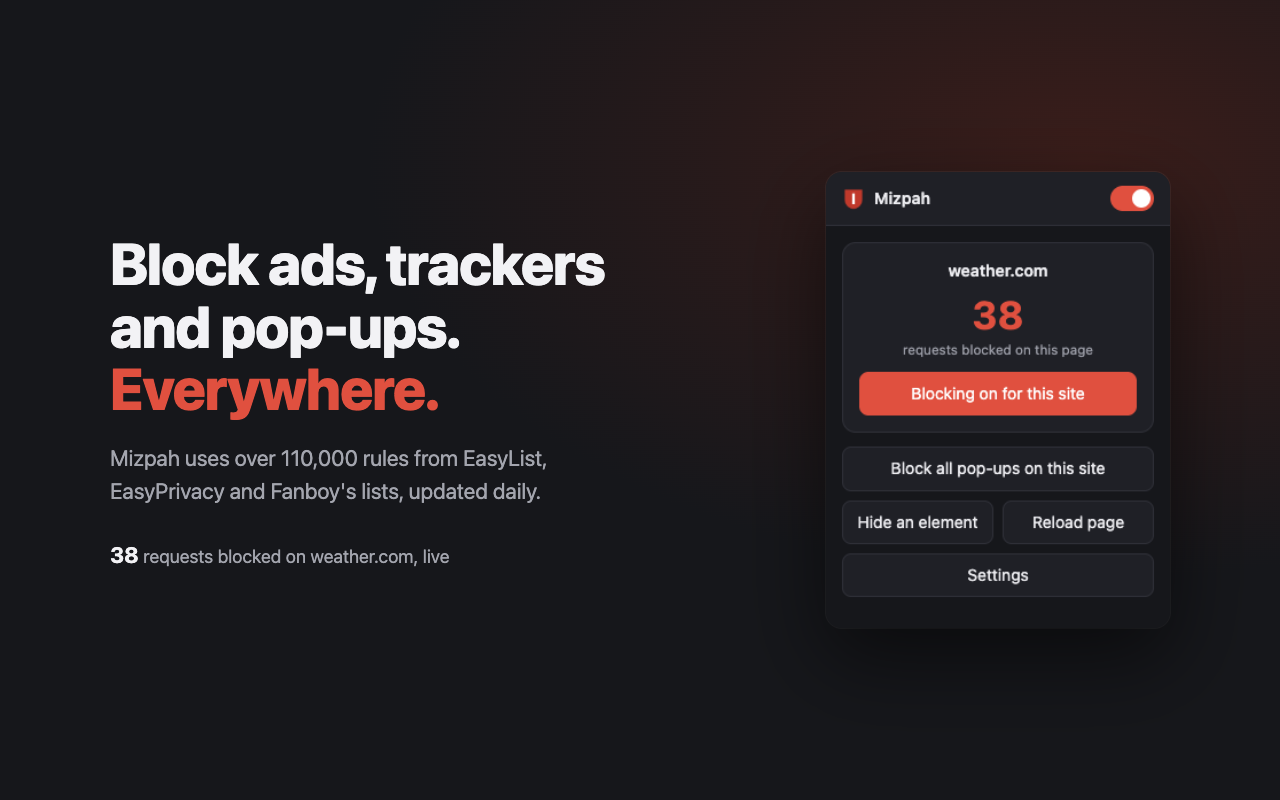
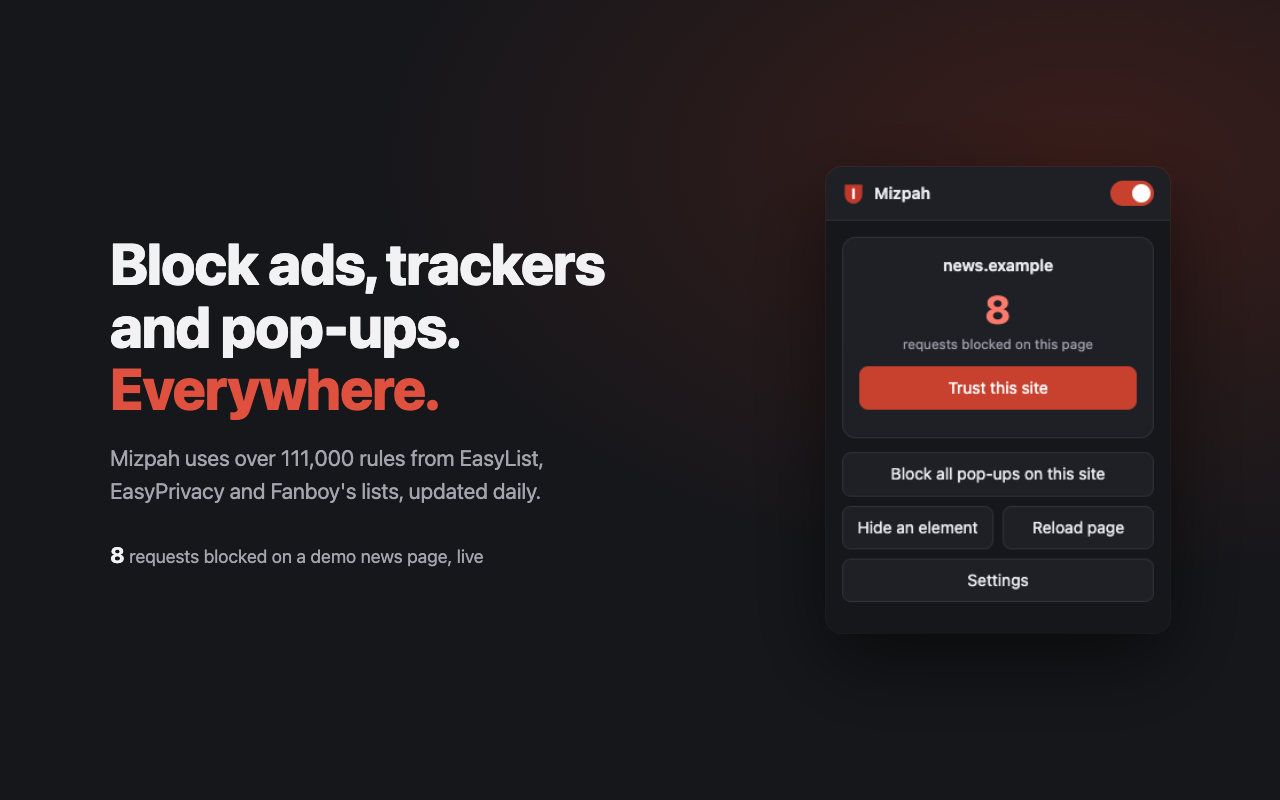
Close the remaining review items
- tools/apple-archive.sh archives both apps with the team ID from
  APPLE_TEAM_ID or the gitignored platforms/team.local, so the Xcode
  project never stores it.
- Store and App Store images use a local demo news page instead of a
  third-party site; the iPhone and iPad app screenshots show the current
  instructions.
- The popup's host-access check builds a port-free match pattern, and
  [hidden] now always hides elements.
- Smoke test covers the element picker end to end, rejected picker and
  settings messages from content scripts, settings import, and the
  cleanup that runs on update.
- The pre-commit hook works from worktrees.
- Safari Xcode copy synced.

diff --git a/platforms/Mizpah/Shared (Extension)/Resources/popup/popup.js b/platforms/Mizpah/Shared (Extension)/Resources/popup/popup.js
@@ -32,10 +32,14 @@ function render() {
   $("status").textContent = !state.enabled ? "Blocking is paused everywhere" : state.hostname && state.allowlisted ? "Hide an element and pop-up blocking are unavailable on trusted sites" : "";
 }
 
+const sitePattern = () => {
+  const u = new URL(tab.url);
+  return `${u.protocol}//${u.hostname}/*`;
+};
+
 async function checkHostAccess() {
   if (!state?.hostname || !state.enabled || state.allowlisted) return;
-  const origin = `${new URL(tab.url).origin}/*`;
-  const granted = await chrome.permissions.contains({ origins: [origin] }).catch(() => true);
+  const granted = await chrome.permissions.contains({ origins: [sitePattern()] }).catch(() => true);
   $("hostAccess").hidden = granted;
 }
 
@@ -51,7 +55,7 @@ async function refresh() {
 }
 
 $("grantAccess").addEventListener("click", async () => {
-  const granted = await chrome.permissions.request({ origins: [`${new URL(tab.url).origin}/*`] }).catch(() => false);
+  const granted = await chrome.permissions.request({ origins: [sitePattern()] }).catch(() => false);
   if (granted) {
     $("hostAccess").hidden = true;
     $("note").hidden = false;

diff --git a/popup/popup.js b/popup/popup.js
@@ -32,10 +32,14 @@ function render() {
   $("status").textContent = !state.enabled ? "Blocking is paused everywhere" : state.hostname && state.allowlisted ? "Hide an element and pop-up blocking are unavailable on trusted sites" : "";
 }
 
+const sitePattern = () => {
+  const u = new URL(tab.url);
+  return `${u.protocol}//${u.hostname}/*`;
+};
+
 async function checkHostAccess() {
   if (!state?.hostname || !state.enabled || state.allowlisted) return;
-  const origin = `${new URL(tab.url).origin}/*`;
-  const granted = await chrome.permissions.contains({ origins: [origin] }).catch(() => true);
+  const granted = await chrome.permissions.contains({ origins: [sitePattern()] }).catch(() => true);
   $("hostAccess").hidden = granted;
 }
 
@@ -51,7 +55,7 @@ async function refresh() {
 }
 
 $("grantAccess").addEventListener("click", async () => {
-  const granted = await chrome.permissions.request({ origins: [`${new URL(tab.url).origin}/*`] }).catch(() => false);
+  const granted = await chrome.permissions.request({ origins: [sitePattern()] }).catch(() => false);
   if (granted) {
     $("hostAccess").hidden = true;
     $("note").hidden = false;

diff --git a/options/theme.css b/options/theme.css
@@ -48,3 +48,5 @@ button.primary.off { background: var(--surface); color: var(--text); border-colo
 .switch input:checked + span::before { transform: translateX(16px); }
 .switch input:focus-visible + span { outline: 2px solid var(--accent); outline-offset: 2px; }
 @media (prefers-reduced-motion: reduce) { .switch span, .switch span::before { transition: none; } }
+
+[hidden] { display: none !important; }

diff --git a/platforms/Mizpah/Shared (Extension)/Resources/options/theme.css b/platforms/Mizpah/Shared (Extension)/Resources/options/theme.css
@@ -48,3 +48,5 @@ button.primary.off { background: var(--surface); color: var(--text); border-colo
 .switch input:checked + span::before { transform: translateX(16px); }
 .switch input:focus-visible + span { outline: 2px solid var(--accent); outline-offset: 2px; }
 @media (prefers-reduced-motion: reduce) { .switch span, .switch span::before { transition: none; } }
+
+[hidden] { display: none !important; }

diff --git a/README.md b/README.md
@@ -37,7 +37,7 @@ node tools/package.mjs
 tools/safari.sh
 ```
 
-The first builds the Chrome, Edge and Firefox packages. The second regenerates the Safari Xcode project; set `BUILD_NUMBER` to a number above your last upload, or it uses the current UTC time as `yymmddHHMM`. `tools/safari.sh --check` compares the committed Xcode copy of the extension with a fresh build. Versions, store limits and Apple settings are in `tools/release.config.json`. Publishing to the App Store needs a paid Apple Developer Program membership. The App Store listing, screenshots in `store/apple/` and the build and upload steps are in [store/app-store.md](store/app-store.md). Regenerate the App Store screenshots with `node tools/apple-assets.mjs`.
+The first builds the Chrome, Edge and Firefox packages. The second regenerates the Safari Xcode project; set `BUILD_NUMBER` to a number above your last upload, or it uses the current UTC time as `yymmddHHMM`. `tools/safari.sh --check` compares the committed Xcode copy of the extension with a fresh build. `tools/apple-archive.sh` archives the iOS and macOS apps; it takes your Apple team ID from `APPLE_TEAM_ID` or the gitignored `platforms/team.local`, so the ID is never written into the project. Versions, store limits and Apple settings are in `tools/release.config.json`. Publishing to the App Store needs a paid Apple Developer Program membership. The App Store listing, screenshots in `store/apple/` and the build and upload steps are in [store/app-store.md](store/app-store.md). Regenerate the App Store screenshots with `node tools/apple-assets.mjs`.
 
 ## Install
 

diff --git a/store/app-store.md b/store/app-store.md
@@ -108,9 +108,8 @@ Upload from `store/apple/`:
 
 1. Accept any pending agreements at https://developer.apple.com/account and in App Store Connect under Business.
 2. Run `tools/safari.sh` to regenerate the Xcode project with the App Store settings.
-3. Open `platforms/Mizpah/Mizpah.xcodeproj` in Xcode and choose your team under Signing & Capabilities for all four targets.
-4. Choose the **Mizpah (iOS)** scheme with **Any iOS Device**, then Product › Archive. In the Organizer, click Distribute App › App Store Connect.
-5. Repeat with the **Mizpah (macOS)** scheme and **Any Mac**.
-6. In App Store Connect, attach both builds to version 1.0.0, add the screenshots, and submit for review.
+3. Put your Apple team ID in `platforms/team.local` (gitignored) or set `APPLE_TEAM_ID`, then run `tools/apple-archive.sh`. It archives both apps into `dist/apple` without writing the team ID into the project.
+4. Open each archive in Xcode's Organizer (Window › Organizer) and click Distribute App › App Store Connect.
+5. In App Store Connect, attach both builds to version 1.0.0, add the screenshots, and submit for review.
 
 For later versions, raise `version` in `manifest.json` and set a higher build number, for example `BUILD_NUMBER=2 tools/safari.sh`.
